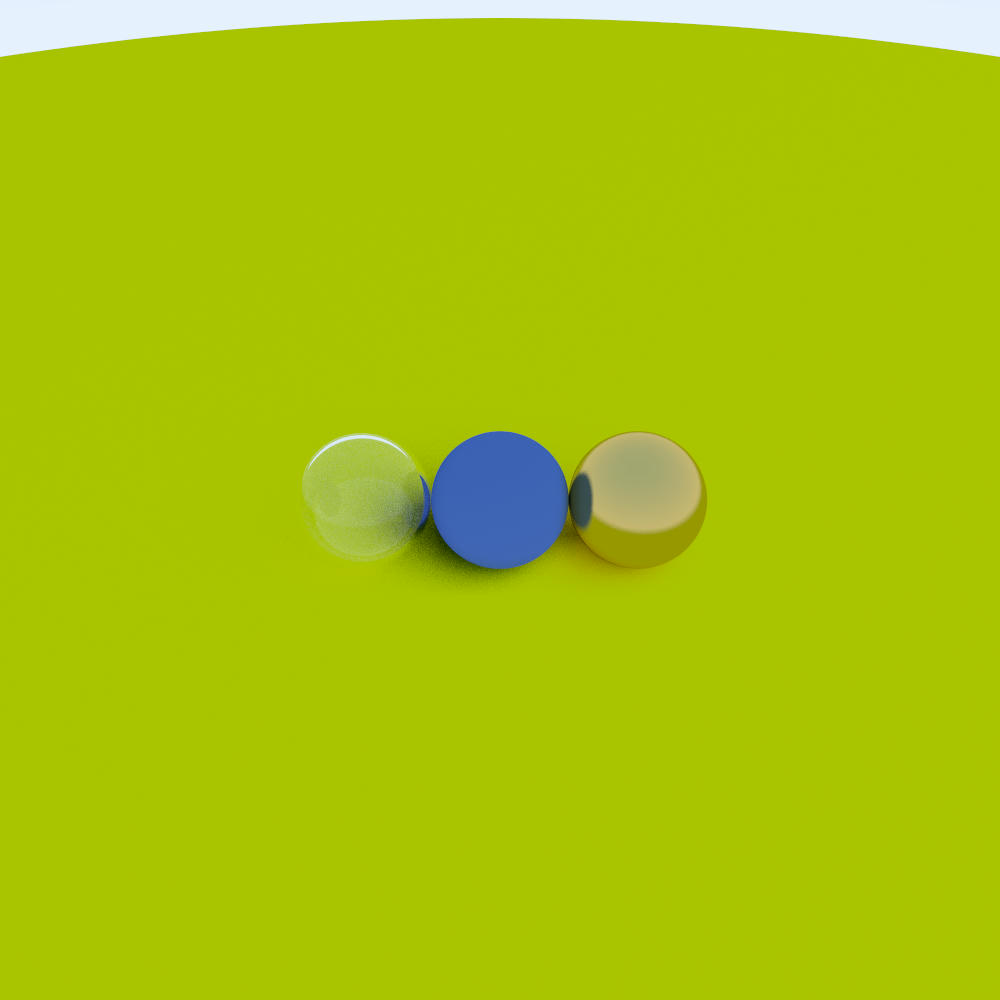
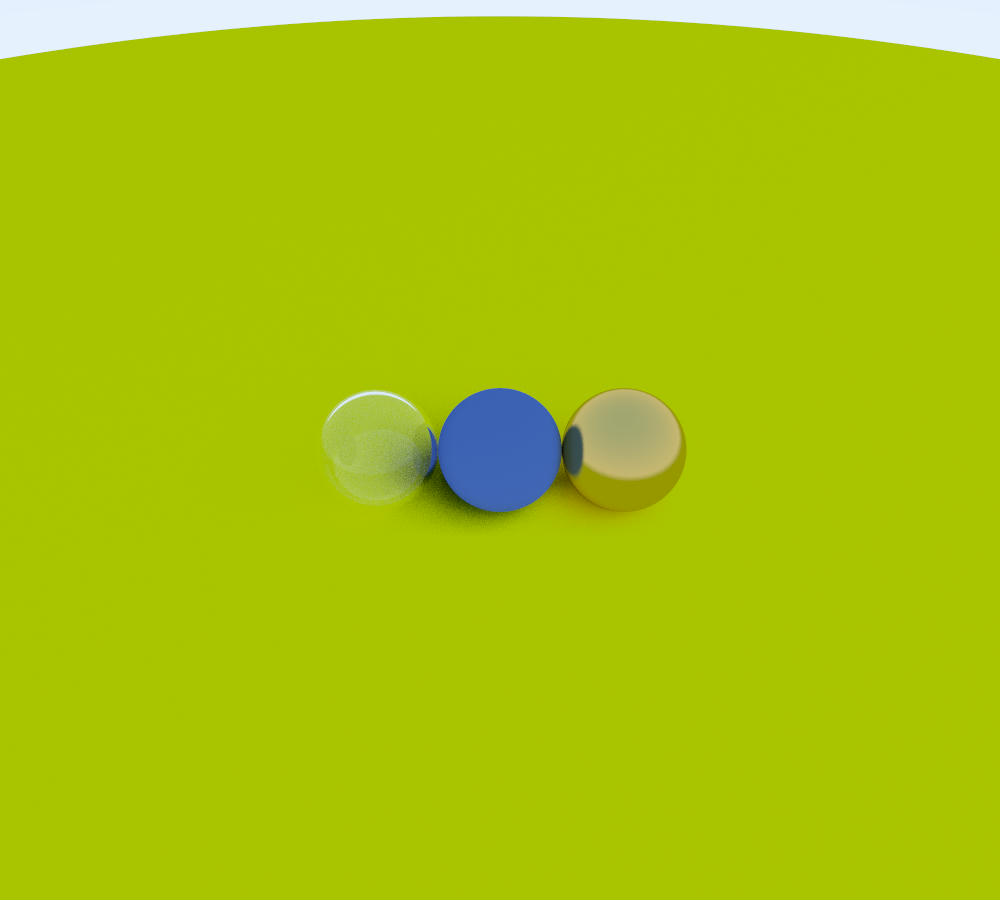
fix unuptimized code crash

diff --git a/src/lib.rs b/src/lib.rs
@@ -45,14 +45,13 @@ pub fn ray_tracer(world: &ReflexibleList, cam: &Camera, nx: u32, ny: u32) {
             let ig = (255.99 * col.g()) as u8;
             let ib = (255.99 * col.b()) as u8;
 
-            let pixel = imgbuf.get_pixel_mut(i, ((j - ny + 1) as i32).abs() as u32);
+            let pixel = imgbuf.get_pixel_mut(i, ny - (j + 1));
             *pixel = image::Rgb([ir, ig, ib]);
-
             print!(
                 "\rprogress ==> {}/{} = %{}",
-                1 + i + nx * ((j - ny + 1) as i32).abs() as u32,
+                1 + i + nx * (ny - (j + 1)),
                 nx * ny,
-                (1 + i + nx * ((j - ny + 1) as i32).abs() as u32) * 100 / (nx * ny)
+                (1 + i + nx * (ny - (j + 1))) * 100 / (nx * ny)
             );
         }
     }

diff --git a/src/bin/main.rs b/src/bin/main.rs
@@ -11,7 +11,7 @@ use ray_tracer::vec3::Vec3;
 
 fn main() {
     let nx = 1000;
-    let ny = 1000;
+    let ny = 900;
 
     let sphere_1 = Sphere::new(
         Vec3::new(0.0, 0.0, -1.0),
